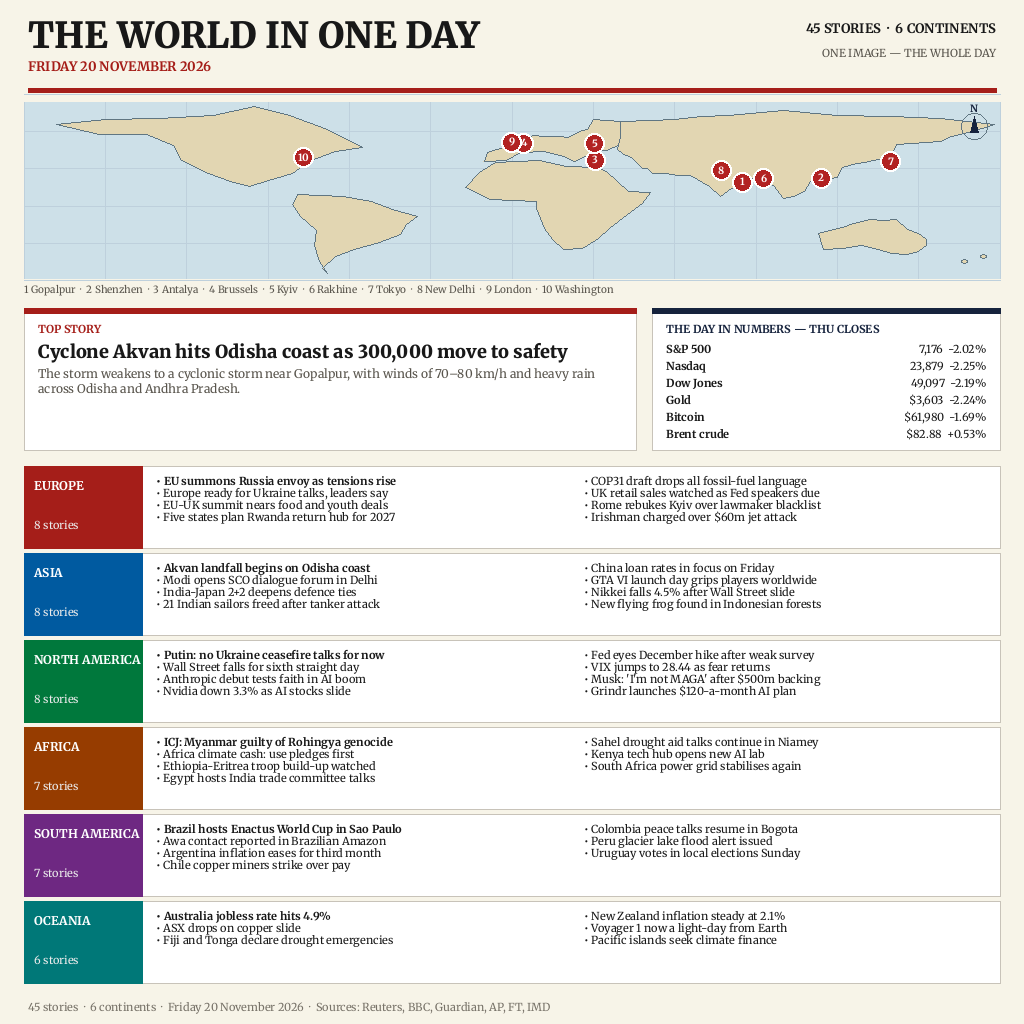
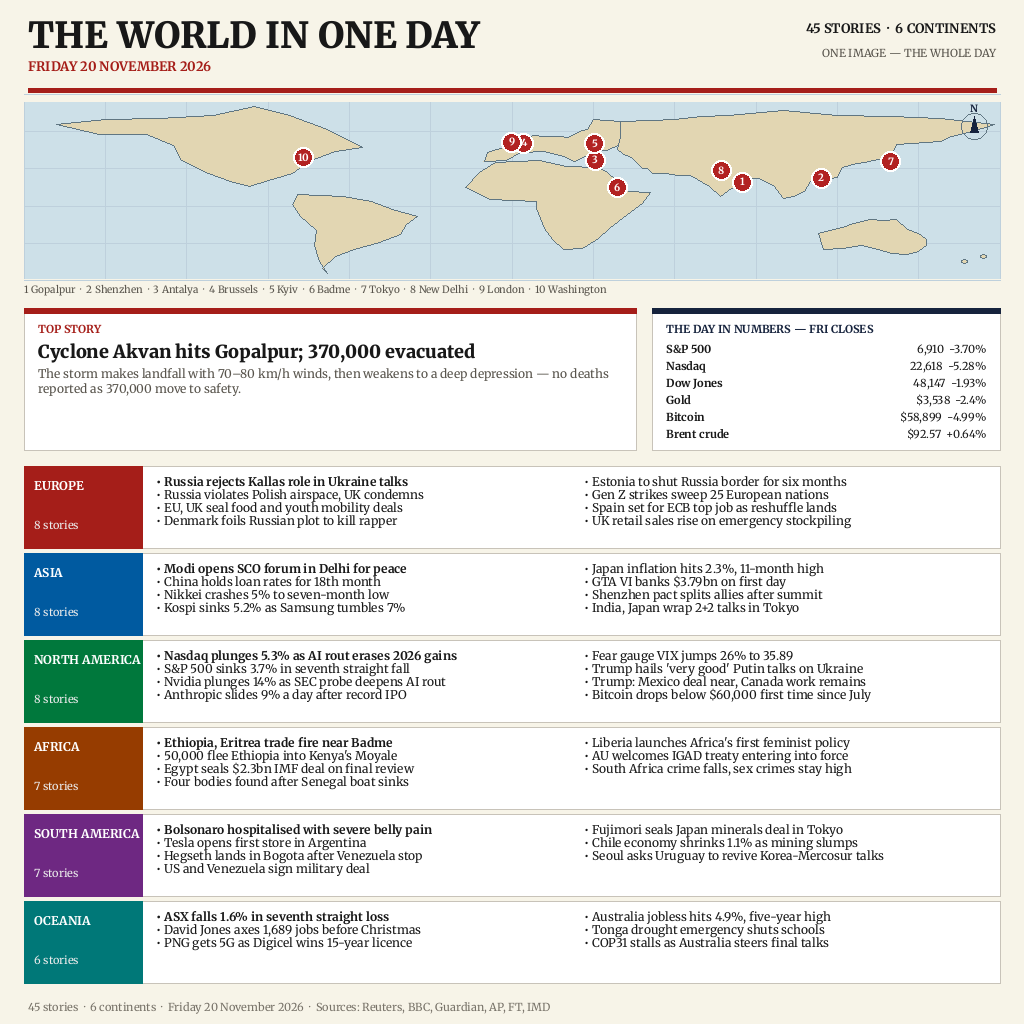
Final: 45 verified stories for Fri 20 Nov 2026
- stories.json draft:false, full-day set re-verified 21 Nov
- Lead: Cyclone Akvan hits Gopalpur, 370,000 evacuated
- Numbers: Fri closes S&P 6,910 -3.70%, Nasdaq 22,618 -5.28%,
  Dow 48,147 -1.93%, Gold $3,538 -2.4%, Bitcoin $58,899 -4.99%,
  Brent $92.57 +0.64%
- Strip type 11pt -> 12pt (fits, all headlines single-line)
- entry.png 1024x1024, 202,081 bytes, sha256
  8a939d2dfa3fedd7c19430ab9e92aeada3e2ee21e79ec9aaf560dd0279c7471b
  (render 2x identical, main.py 2x identical)

diff --git a/render.py b/render.py
@@ -269,7 +269,7 @@ def main():
             cx = strip_x + 132 + ci * (col_w + 20)
             cy = top + 8
             for hi, headline in enumerate(col_heads):
-                face = typeface("bold", 11) if hi == 0 and ci == 0 else typeface("regular", 11)
+                face = typeface("bold", 12) if hi == 0 and ci == 0 else typeface("regular", 12)
                 cy = draw_lines(pen, cx, cy, "•  " + headline,
                                 face, col_w, BODY, spacing=0)
                 cy += 1
